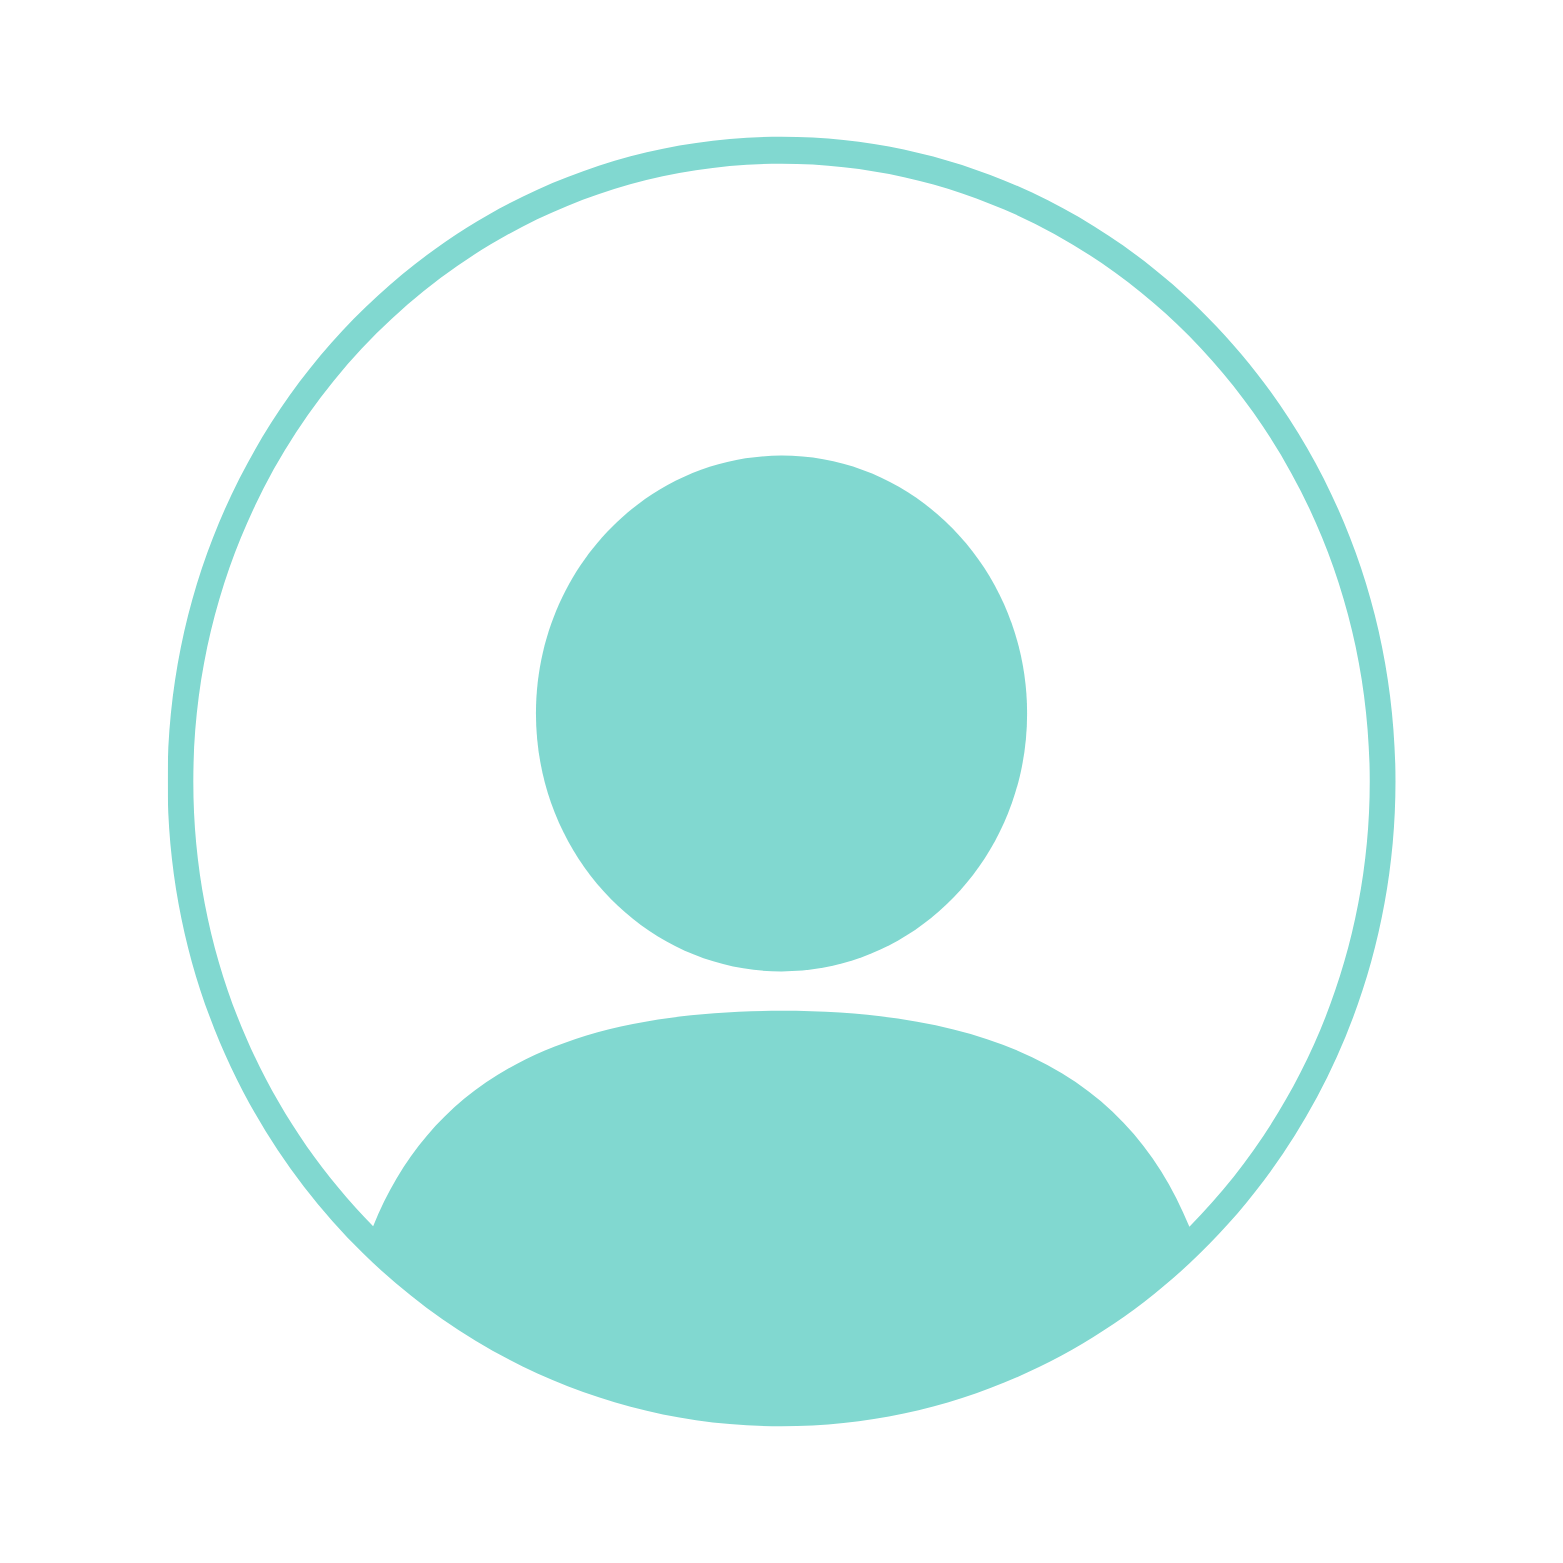
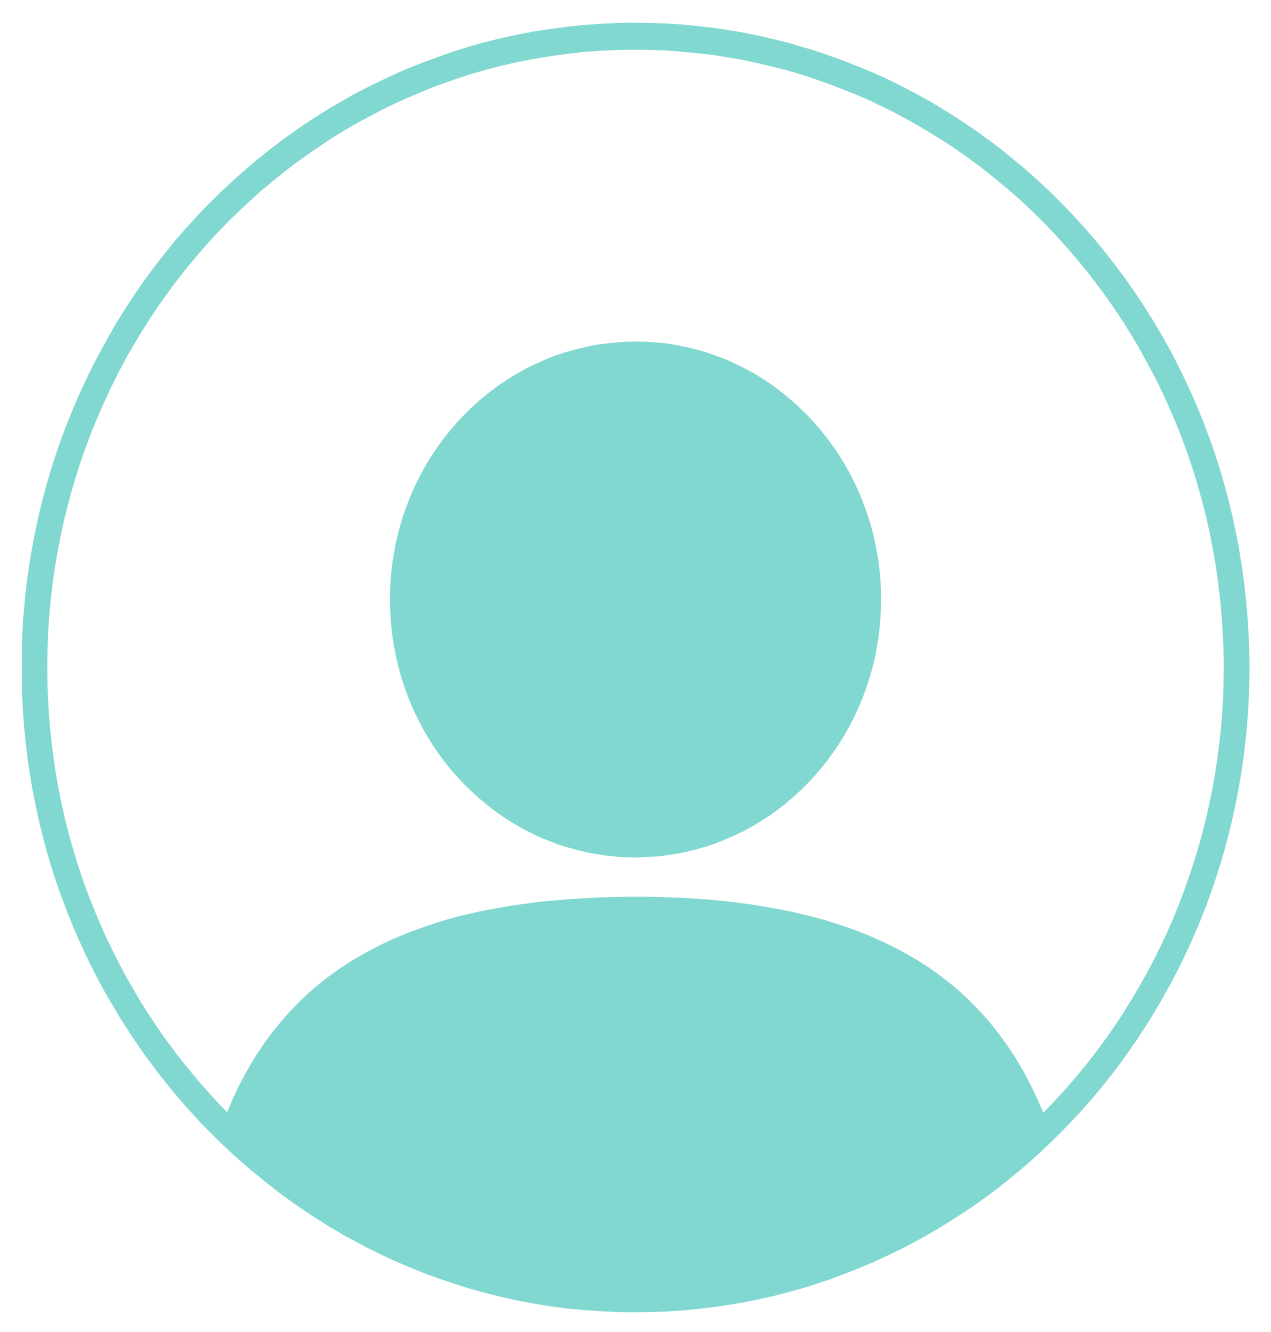
user can upload picture now

Changed region(s): [[0.0, 0.0, 0.9819, 0.985], [0.2762, 0.2462, 0.7057, 0.708], [0.7057, 0.708, 0.7364, 0.7387]]

diff --git a/lib/pages/profile_set_screen.dart b/lib/pages/profile_set_screen.dart
@@ -1,5 +1,8 @@
 import 'package:flutter/material.dart';
 import 'package:g_chat/pages/signup_screen.dart';
+import 'package:image_picker/image_picker.dart';
+import 'dart:io';
+
 
 class ProfileSetScreen extends StatefulWidget {
   const ProfileSetScreen({Key? key}) : super(key: key);
@@ -9,6 +12,16 @@ class ProfileSetScreen extends StatefulWidget {
 }
 
 class _ProfileSetScreenState extends State<ProfileSetScreen> {
+
+
+
+
+  File? _imageFile;
+  final ImagePicker _picker = ImagePicker();
+
+
+
+
   final TextEditingController _firstNameController = TextEditingController();
   final TextEditingController _lastNameController = TextEditingController();
 
@@ -18,6 +31,16 @@ class _ProfileSetScreenState extends State<ProfileSetScreen> {
     _lastNameController.dispose();
     super.dispose();
   }
+
+  Future<void> _pickImage() async {
+    final pickedFile = await _picker.pickImage(source: ImageSource.gallery);
+    if (pickedFile != null) {
+      setState(() {
+        _imageFile = File(pickedFile.path);
+      });
+    }
+  }
+
 
   @override
   Widget build(BuildContext context) {
@@ -63,45 +86,49 @@ class _ProfileSetScreenState extends State<ProfileSetScreen> {
                 const SizedBox(height: 40),
 
                 // Custom Profile Picture
-                GestureDetector(
-                  onTap: () {
-                    // Add image picker logic here
-                  },
-                  child: Stack(
-                    children: [
-                      CircleAvatar(
-                        radius: 60,
-                        backgroundColor: Colors.black,
-                        child: Image.asset(
-                          'assets/images/profile_placeholder.png', // Your custom PNG
-                          width: 120,
-                          height: 120,
-                          errorBuilder: (_, __, ___) => const Icon(
-                            Icons.person,
-                            size: 60,
-                            color: Colors.white54,
-                          ),
+              GestureDetector(
+                onTap: _pickImage, // 👈 Call the method
+                child: Stack(
+                  children: [
+                    CircleAvatar(
+                      radius: 60,
+                      backgroundColor: Colors.black,
+                      backgroundImage:
+                      _imageFile != null ? FileImage(_imageFile!) : null, // 👈 show picked image
+                      child: _imageFile == null
+                          ? Image.asset(
+                        'assets/images/profile_placeholder.png',
+                        width: 120,
+                        height: 120,
+                        errorBuilder: (_, __, ___) => const Icon(
+                          Icons.person,
+                          size: 60,
+                          color: Colors.white54,
+                        ),
+                      )
+                          : null,
+                    ),
+                    // Camera icon (no changes)
+                    Positioned(
+                      bottom: 0,
+                      right: 0,
+                      child: Container(
+                        padding: const EdgeInsets.all(4),
+                        decoration: const BoxDecoration(
+                          color: Color(0xFF81D8D0),
+                          shape: BoxShape.circle,
+                        ),
+                        child: const Icon(
+                          Icons.camera_alt,
+                          size: 20,
+                          color: Colors.white,
                         ),
                       ),
-                      Positioned(
-                        bottom: 0,
-                        right: 0,
-                        child: Container(
-                          padding: const EdgeInsets.all(4),
-                          decoration: const BoxDecoration(
-                            color: Color(0xFF81D8D0),
-                            shape: BoxShape.circle,
-                          ),
-                          child: const Icon(
-                            Icons.camera_alt,
-                            size: 20,
-                            color: Colors.white,
-                          ),
-                        ),
-                      ),
-                    ],
-                  ),
+                    ),
+                  ],
                 ),
+              ),
+
                 const SizedBox(height: 40),
 
                 // First Name Field
